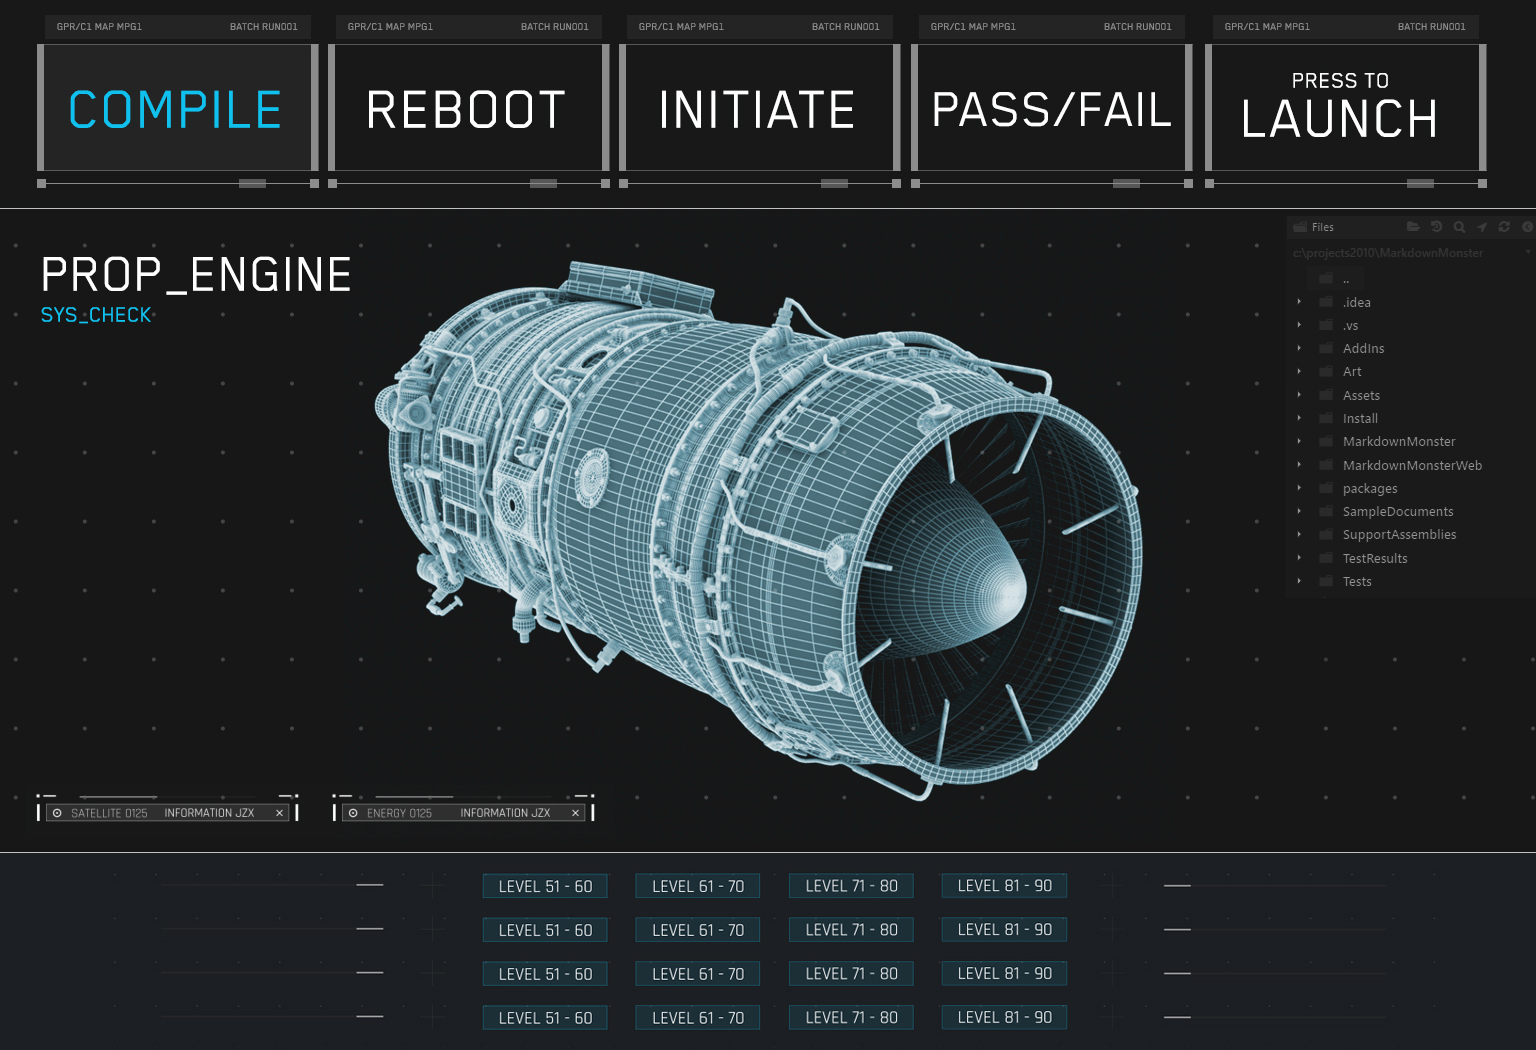
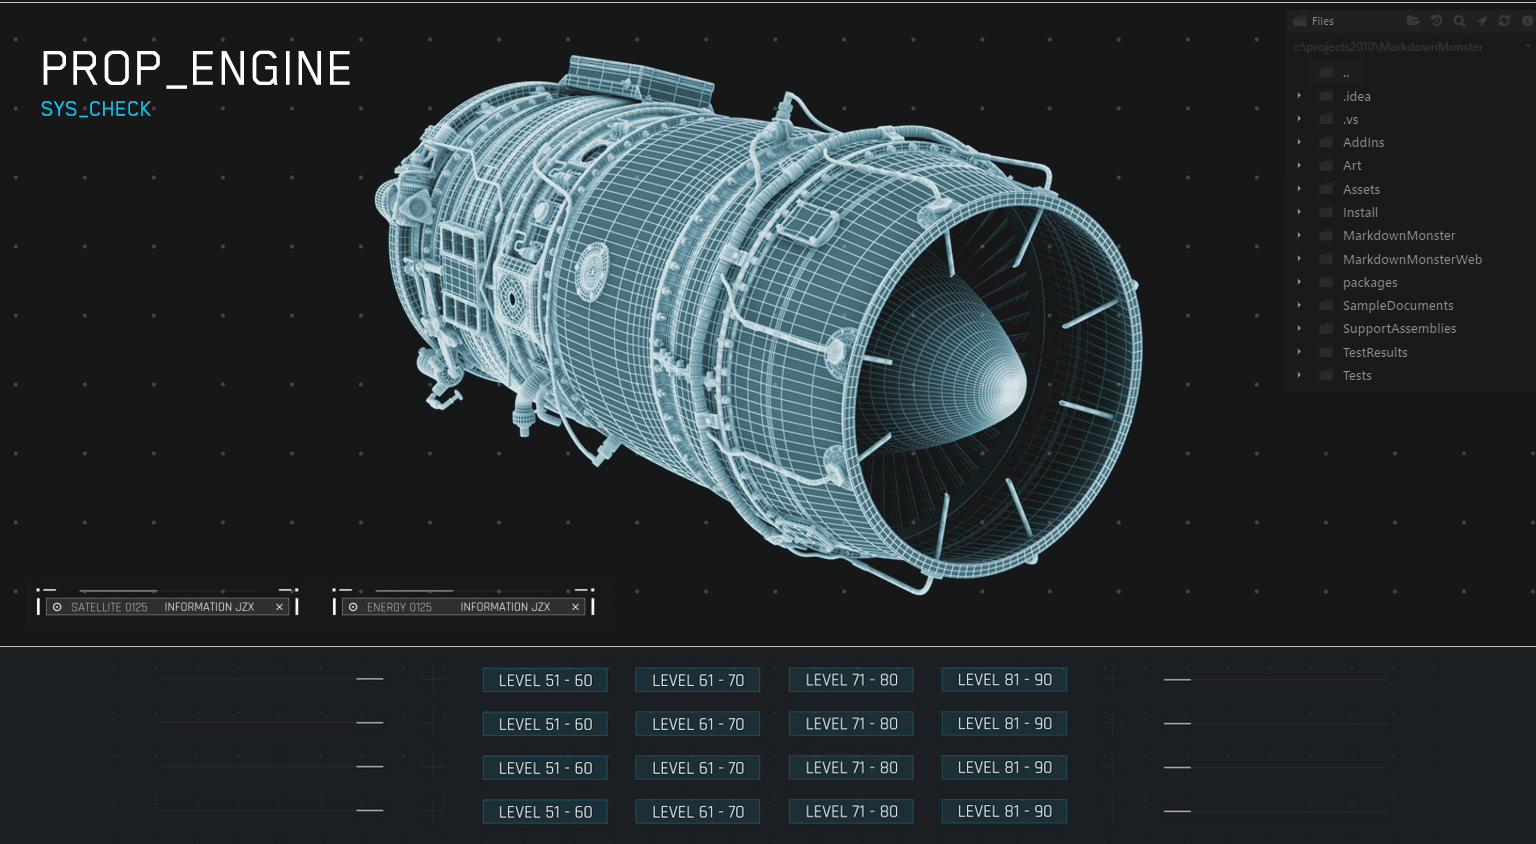
scene 4 animated progress

diff --git a/scene4/assets/js/script.js b/scene4/assets/js/script.js
@@ -20,10 +20,11 @@ $(function() {
     var errorFlag = true;
     var term = $('#terminal').terminal(function(command) {
         if (command !== '') {
+            $('#progress').attr('class', errorFlag ? 'error' : 'success');
             var i = 1;
             (function loop() {
                 term.echo(`complex code line ${i++}`);
-                if (i < 31) {
+                if (i < 100) {
                     timer = setTimeout(loop, 100);
                 } else {
                     if (errorFlag) {
@@ -42,5 +43,5 @@ $(function() {
             greetings: '',
             name: '',
             height: 583
-        });
+    });
 });

diff --git a/scene4/assets/css/style.css b/scene4/assets/css/style.css
@@ -25,9 +25,25 @@ body {
     right: 10px;
 }
 
+#progress {
+    width: 1536px;
+    height: 206px;
+    background-image: url("../img/progress.jpg");
+    background-size: cover;
+    background-repeat: no-repeat;
+    position: relative;
+}
+
+#progress.success{
+    background-image: url("../img/success.gif");
+}
+
+#progress.error{
+    background-image: url("../img/error.gif");
+}
+
 #footer {
     width: 1536px;
-    height: 1050px;
+    height: 844px;
     background-image: url("../img/footer.jpg");
-    position: relative;
 }

diff --git a/scene4/index.html b/scene4/index.html
@@ -12,8 +12,10 @@
 <body>
 <div id="header"></div>
 <div id="terminal"></div>
-<div id="footer">
+<div id="progress">
     <div id="gear"></div>
+</div>
+<div id="footer">
 </div>
 </body>
 </html>
